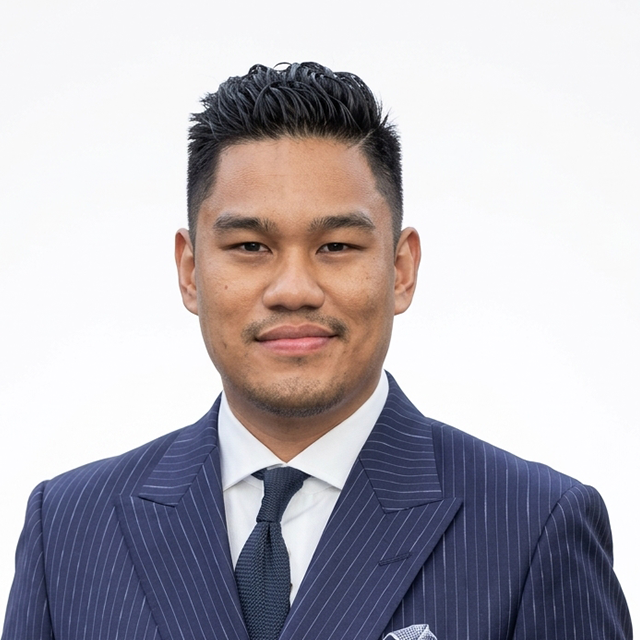
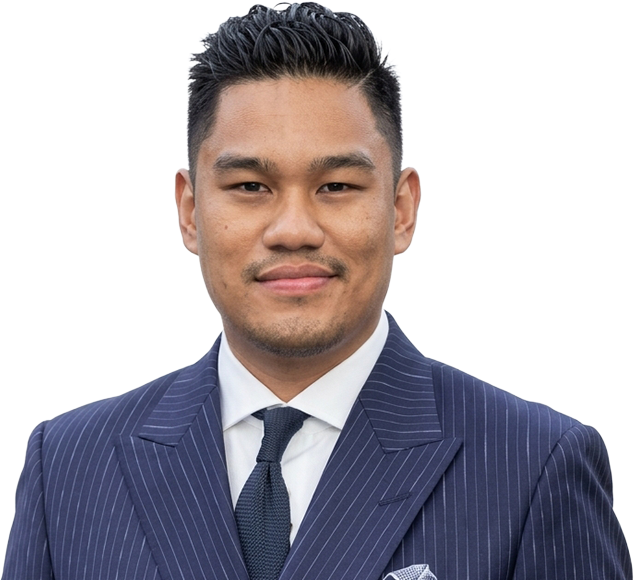
Update Muhammad Nuraiman image and fix mobile scrolling

diff --git a/speakers.html b/speakers.html
@@ -43,7 +43,7 @@
       </div>
 
       <div class="speaker-slider-container fade-in">
-        <div class="speaker-list" id="speakerList">
+        <div class="speaker-list" id="speakersGrid" style="flex-wrap: wrap; justify-content: center; overflow: visible; padding-bottom: 40px; gap: 30px;">
           <!-- Card 1 -->
           <div class="speaker-card dark-card">
             <div class="speaker-img-wrapper bg-gradient-pink">
